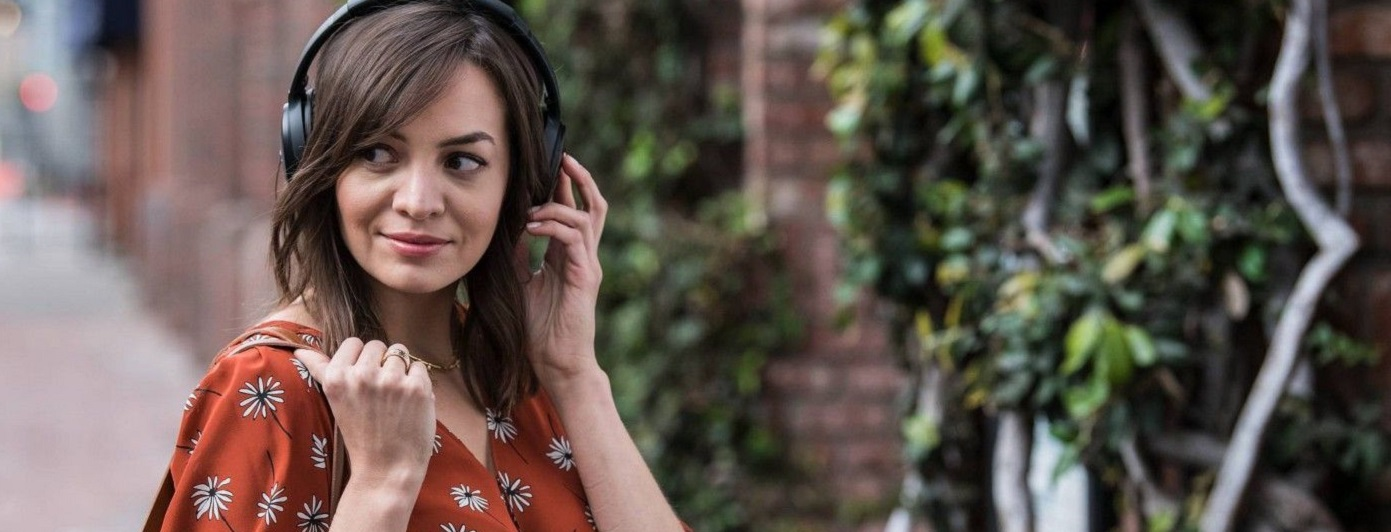
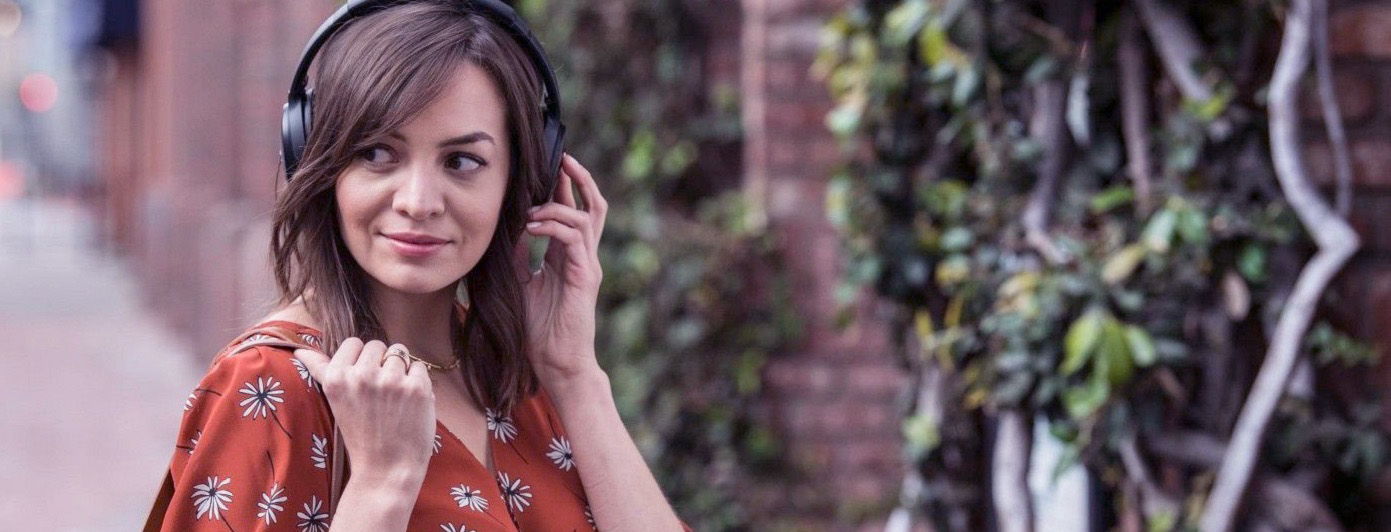
npm install react-leaflet

diff --git a/client/src/pages/Warranty/WarrantyHeader/index.js b/client/src/pages/Warranty/WarrantyHeader/index.js
@@ -5,11 +5,12 @@ import { withRouter, Link } from 'react-router-dom';
 import Aboutimg from '../../../assets/img/About/A01.jpg'
 import Aboutimg2 from '../../../assets/img/About/A02.jpg'
 import Aboutimg3 from '../../../assets/img/About/A07.jpg'
+import Aboutimg4 from '../../../assets/img/About/wearing.jpg'
 
 function WarrantyHeader(props) {
     const params = {
       autoplay: {
-        delay: 3000,
+        delay: 4000,
         disableOnInteraction: false
     },
       navigation: {
@@ -28,7 +29,7 @@ function WarrantyHeader(props) {
          <div><img src={Aboutimg2}></img>
          <h1>保固卡</h1>
          </div>
-         <div id="Aboutimg3"><img src={Aboutimg3}></img>
+         <div id="Aboutimg3"><img src={Aboutimg4}></img>
          <h1>保固卡</h1>
          </div>
     </Swiper>

diff --git a/client/src/pages/Warranty/WarrantyAbout/index.js b/client/src/pages/Warranty/WarrantyAbout/index.js
@@ -1,0 +1,34 @@
+import React, { useEffect,useState } from 'react';
+import { withRouter, Link } from 'react-router-dom';
+// import Aboutimg from '../../../assets/img/About/A01.jpg'
+//antd
+// import { message } from 'antd';
+
+function WarrantyAbout() {
+  
+  
+
+  return ( <>
+<div className="AboutWarrantyCrumb">
+<Link to="/">首頁</Link>/  <Link to="/about/WiWarranty">禮物卡</Link>
+</div>
+<div className="AboutWarrantyCard">
+  <h1>關於禮物卡</h1>
+
+  <div>
+   <p>
+  Otis的禮物卡內含購物金，只要在結帳時，輸入卡片上方的號碼便可抵扣等值消費金額，<br></br>
+  一共有一年、三年、五年三種面額。
+   </p>
+  </div>
+
+</div>
+
+
+
+ 
+
+</>
+  )
+}
+export default withRouter(WarrantyAbout)

diff --git a/client/src/pages/Warranty/index.js b/client/src/pages/Warranty/index.js
@@ -5,10 +5,12 @@ import { Link, NavLink, withRouter } from 'react-router-dom'
 // scss
 // import './_menu.scss'
 import WarrantyHeader from './WarrantyHeader'
+import WarrantyAbout from './WarrantyAbout'
 function WiWarranty(props) {
     return (
         <Fragment>
         <WarrantyHeader />
+        <WarrantyAbout />
         </Fragment>
     )
 

diff --git a/client/src/assets/scss/Warranty.scss b/client/src/assets/scss/Warranty.scss
@@ -1,0 +1,18 @@
+.AboutWarrantyCrumb {
+    width: 90%;
+    margin: 0 auto;
+    padding: 30px;
+  }
+  .AboutWarrantyCard {
+    width: 90%;
+    margin: 0 auto;
+    h1 {
+      font-size: 45px;
+      text-align: center;
+    }
+    div {
+      display: flex;
+      justify-content: center;
+    }
+  }
+  
